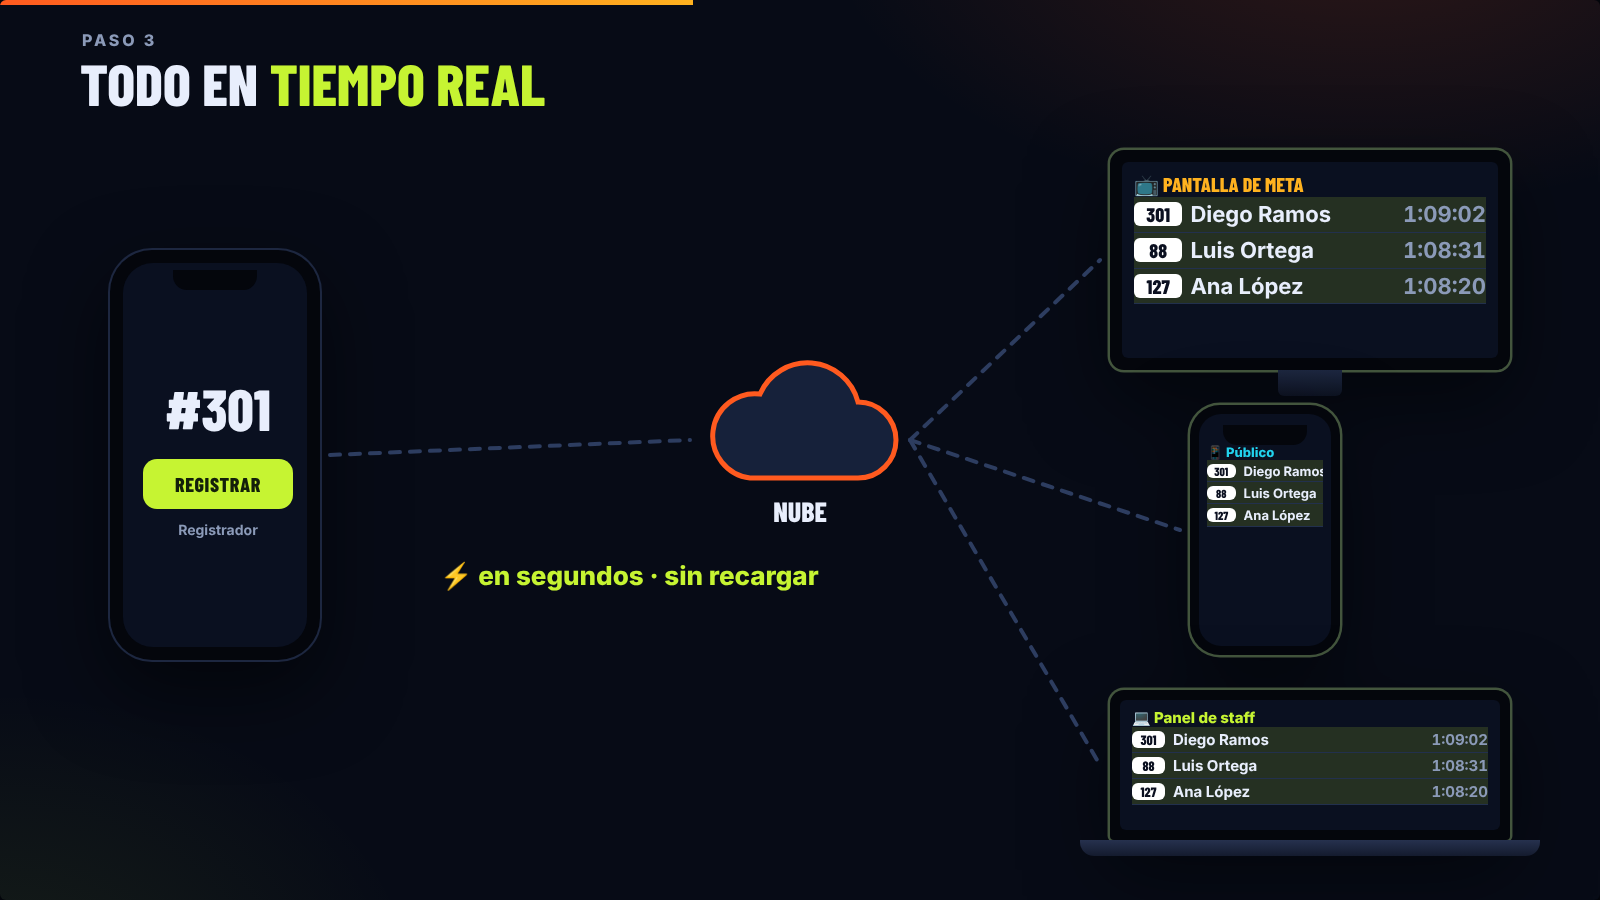
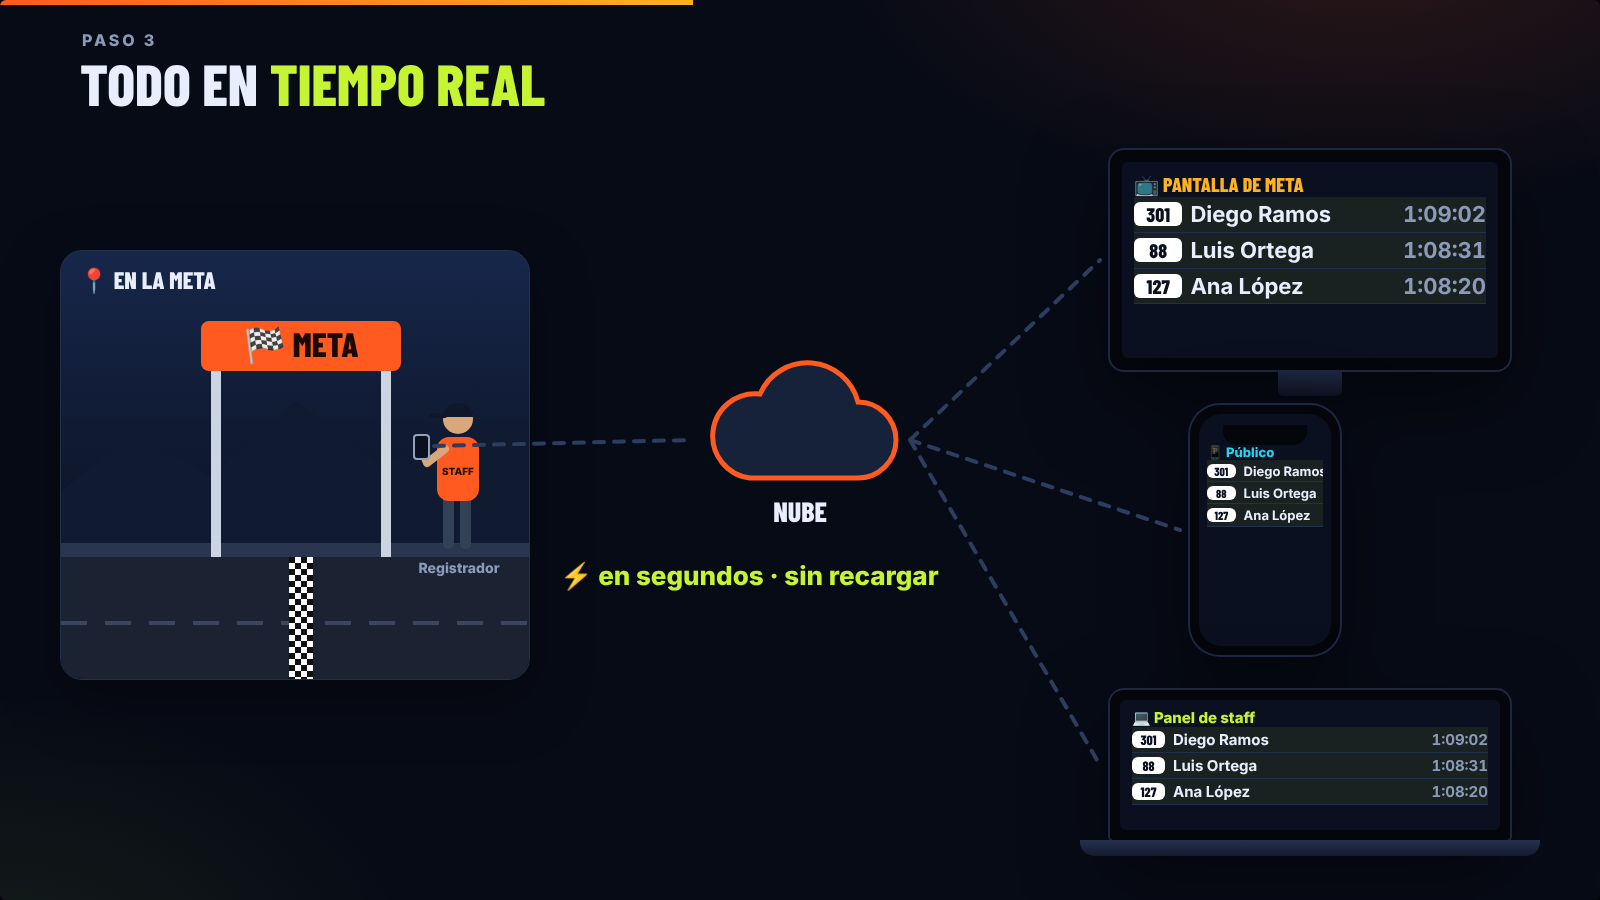
Presentación: meta con ciclistas cruzando y persona cronometrando
Claude-Session: https://claude.ai/code/session_01GFrjzfvwnkTfurMkTH8iyS

diff --git a/docs/presentacion-animada.html b/docs/presentacion-animada.html
@@ -198,6 +198,62 @@ function qrSvg(size, seed = 7) {
   return `<svg width="${size}" height="${size}" viewBox="0 0 ${size} ${size}" style="background:#fff;padding:${c}px;box-sizing:content-box;border-radius:8px"><g fill="#000">${r}${f(0, 0)}${f(n - 7, 0)}${f(0, n - 7)}</g></svg>`;
 }
 
+
+/* Meta: arco, línea a cuadros, persona cronometrando y ciclistas que cruzan */
+function finishLine(x, y, w = 470, h = 430) {
+  const v = el(`<div class="ab card" style="left:${x}px;top:${y}px;width:${w}px;height:${h}px;overflow:hidden;padding:0;background:linear-gradient(180deg,#16274a,#0c1222 72%)">
+    <svg width="${w}" height="${h}" viewBox="0 0 470 430" preserveAspectRatio="none" style="position:absolute;inset:0">
+      <defs><pattern id="chk${x}" width="12" height="12" patternUnits="userSpaceOnUse"><rect width="12" height="12" fill="#111"/><rect width="6" height="6" fill="#fff"/><rect x="6" y="6" width="6" height="6" fill="#fff"/></pattern></defs>
+      <path d="M0 240 L70 185 L150 225 L235 150 L320 215 L400 170 L470 200 L470 300 L0 300Z" fill="#101a30"/>
+      <rect x="0" y="292" width="470" height="14" fill="#2a3550"/>
+      <rect x="0" y="306" width="470" height="124" fill="#1b2232"/>
+      <line x1="0" y1="372" x2="470" y2="372" stroke="#3a4560" stroke-width="4" stroke-dasharray="26 18"/>
+      <rect x="228" y="306" width="24" height="124" fill="url(#chk${x})"/>
+      <rect x="150" y="84" width="10" height="222" fill="#cbd5e1"/><rect x="320" y="84" width="10" height="222" fill="#cbd5e1"/>
+      <rect x="140" y="70" width="200" height="50" rx="8" fill="#ff5a1f"/>
+      <text x="240" y="106" text-anchor="middle" font-family="Barlow Condensed,Inter" font-weight="800" font-size="34" fill="#1a0b02">🏁 META</text>
+    </svg>
+    <div style="position:absolute;left:18px;top:14px;font-family:var(--display);font-weight:800;font-size:24px;text-transform:uppercase">📍 En la meta</div>
+    <svg class="who" width="90" height="160" viewBox="0 0 90 160" style="position:absolute;left:352px;top:142px">
+      <rect x="30" y="100" width="11" height="56" rx="5" fill="#334155"/><rect x="47" y="100" width="11" height="56" rx="5" fill="#334155"/>
+      <rect x="24" y="44" width="42" height="64" rx="12" fill="#ff5a1f"/>
+      <text x="45" y="82" text-anchor="middle" font-size="10" font-weight="800" fill="#1a0b02" font-family="Inter">STAFF</text>
+      <circle cx="45" cy="26" r="15" fill="#d9a77c"/><path d="M30 24 a15 14 0 0 1 30 0 z" fill="#0f172a"/><rect x="16" y="20" width="18" height="5" rx="2" fill="#0f172a"/>
+      <path d="M32 56 L14 70 L10 60" stroke="#d9a77c" stroke-width="8" fill="none" stroke-linecap="round" stroke-linejoin="round"/>
+      <rect class="ph" x="1" y="42" width="15" height="24" rx="3" fill="#0b1020" stroke="#94a3b8" stroke-width="2"/>
+    </svg>
+    <div style="position:absolute;left:330px;top:308px;width:136px;text-align:center;font-size:14px;font-weight:800;color:var(--muted)">Registrador</div>
+  </div>`);
+  const ph = $('.ph', v);
+  return {
+    v,
+    phone: [x + 352 + 8, y + 142 + 54], // centro del celular de la persona, en coordenadas del escenario
+    flash(t, color = '#c6f432') {
+      A(ph, [{ fill: color }, { fill: color, offset: .6 }, { fill: '#0b1020' }], t, 0.7, { fill: 'none' });
+      const r = el(`<div style="position:absolute;left:${352 + 8 - 40}px;top:${142 + 54 - 40}px;width:80px;height:80px;border-radius:50%;border:4px solid ${color};opacity:0;pointer-events:none"></div>`, v);
+      A(r, [{ opacity: .9, transform: 'scale(.3)' }, { opacity: 0, transform: 'scale(1.4)' }], t, 0.7, { e: 'ease-out', fill: 'forwards' });
+    },
+    // pts: [[t, x], ...] — x es el borde izquierdo de la bici; la placa cruza la línea cuando x ≈ 135
+    bike(num, jersey, pts) {
+      const wheel = (cx) => `<g class="wh" style="transform-box:fill-box;transform-origin:center"><circle cx="${cx}" cy="78" r="18" fill="none" stroke="#e2e8f0" stroke-width="4"/><path d="M${cx - 17} 78h34M${cx} 61v34" stroke="#64748b" stroke-width="2"/></g>`;
+      const b = el(`<svg width="120" height="100" viewBox="0 0 120 100" style="position:absolute;left:0;top:304px;transform:translateX(-160px);z-index:2">
+        ${wheel(24)}${wheel(96)}
+        <path d="M24 78 L48 78 L74 50 L44 50 Z M48 78 L42 44 M74 50 L96 78 M74 50 L76 38" stroke="#94a3b8" stroke-width="5" fill="none" stroke-linejoin="round" stroke-linecap="round"/>
+        <path d="M46 44 L58 62 L50 78" stroke="#1e293b" stroke-width="7" fill="none" stroke-linecap="round" stroke-linejoin="round"/>
+        <path d="M44 44 L70 24" stroke="${jersey}" stroke-width="13" stroke-linecap="round"/>
+        <path d="M70 26 L80 38" stroke="${jersey}" stroke-width="6" stroke-linecap="round"/>
+        <circle cx="78" cy="16" r="8" fill="#d9a77c"/><path d="M67 15 a11 10 0 0 1 22 -2 z" fill="${jersey}"/>
+        <rect x="80" y="34" width="34" height="22" rx="3" fill="#fff" stroke="#111" stroke-width="1.5"/>
+        <text x="97" y="51" text-anchor="middle" font-size="16" font-weight="800" fill="#0b1020" font-family="Barlow Condensed,Inter">${num}</text>
+      </svg>`, v);
+      const t0 = pts[0][0], d = pts[pts.length - 1][0] - t0;
+      A(b, pts.map(([t, px]) => ({ transform: `translateX(${px}px)`, offset: (t - t0) / d })), t0, d, { e: 'linear' });
+      b.querySelectorAll('.wh').forEach((w) => A(w, [{ transform: 'rotate(0)' }, { transform: 'rotate(360deg)' }], t0, 0.45, { it: Math.ceil(d / 0.45), e: 'linear' }));
+      return b;
+    },
+  };
+}
+
 /* ───────── Escenas ───────── */
 const SCENES = {
   apertura() {
@@ -289,10 +345,14 @@ const SCENES = {
         at(1.05 + i * 0.5, () => { b.style.background = 'rgba(34,197,94,.15)'; b.style.color = '#5ee08f'; b.textContent = `● 10:0${i}:00`; });
       });
     }
+    const M = finishLine(80, c ? 170 : 190);
+    if (!c) { A(M.v, IN, 4.5, 0.5); A($('.card', root), OUT, 4.2, 0.35); } else A(M.v, IN, 0.1, 0.5);
     typeBib(P, '127', t0, g);
     at(t0 + 2 * g + 0.25, () => { P.disp.style.borderColor = 'var(--green)'; P.who.innerHTML = '<span style="color:#fff;font-size:18px">Ana López</span><br><span style="color:var(--pink)">Femenil</span> · vuelta <b style="color:var(--lime)">2 de 3</b>'; P.who.style.borderColor = 'var(--green)'; });
     if (!c) A(el(`<div class="ab" style="left:1000px;top:330px;font-size:22px;font-weight:700;color:var(--muted);width:240px">👀 Ve quién es<br>y qué vuelta lleva</div>`), IN, t0 + 1.4, 0.5);
     const tr = c ? 2.4 : 8.6;
+    M.bike('127', 'var(--pink)', c ? [[0.2, -150], [2.1, 110], [2.4, 135], [3.3, 520]] : [[4.7, -150], [7.2, 70], [8.3, 115], [8.6, 135], [9.6, 520]]);
+    M.flash(tr);
     press(P.reg, tr);
     ripple(800, 500, tr + 0.05, 'var(--lime)', 3, 520);
     A(P.ph, [{ transform: 'translateX(0)' }, { transform: 'translateX(-9px)' }, { transform: 'translateX(9px)' }, { transform: 'translateX(-7px)' }, { transform: 'translateX(7px)' }, { transform: 'translateX(0)' }], tr + 0.05, 0.5, { fill: 'none', e: 'linear' });
@@ -306,7 +366,7 @@ const SCENES = {
     A(toast, OUT, 12, 0.3); A(icons, OUT, 12, 0.3);
     typeBib(P, '127', 12.3, 0.35);
     at(13.25, () => { P.disp.style.borderColor = 'var(--amber)'; P.who.innerHTML = '<span style="color:#fff;font-size:18px">Ana López</span><br><span style="color:var(--amber)">pasó hace 6 s</span>'; });
-    press(P.reg, 14);
+    press(P.reg, 14); M.flash(14, '#ffb21f');
     const warn = el(`<div class="ab" style="left:1010px;top:430px;width:470px;padding:20px 24px;border-radius:18px;background:rgba(255,178,31,.14);border:2px solid var(--amber);font-size:25px;font-weight:800;color:var(--amber)">⚠ ¿Paso duplicado?<div style="font-size:19px;color:#fff;margin:6px 0 14px;font-weight:600">#127 pasó hace 6 segundos</div><span class="btn d" style="height:46px;padding:0 18px;background:var(--surface2);border:1px solid var(--line2);color:#fff;font-size:20px;margin-right:10px">Descartar</span><span class="btn" style="height:46px;padding:0 18px;background:var(--amber);color:#1a1100;font-size:20px">Registrar igual</span></div>`);
     A(warn, POP, 14.2, 0.5);
     ripple(800, 500, 14.05, 'var(--amber)', 2, 460);
@@ -318,8 +378,9 @@ const SCENES = {
 
   vivo(c) {
     title(c ? '' : 'Paso 3', 'Todo en <i>tiempo real</i>');
-    const phone = el(`<div class="phone" style="left:110px;top:250px;width:210px;height:410px"><div class="scr" style="display:grid;place-items:center;text-align:center;padding:20px"><div><div style="font-family:var(--display);font-weight:800;font-size:58px" class="d">—</div><div class="btn" style="margin-top:16px;height:50px;width:150px;background:var(--lime);color:#13200a;font-size:20px">Registrar</div><div class="muted" style="font-size:14px;margin-top:12px;font-weight:700">Registrador</div></div></div></div>`);
-    A(phone, IN, 0.1, 0.5);
+    const M = finishLine(60, 250);
+    A(M.v, IN, 0.1, 0.5);
+    const [px, py] = M.phone;
     const cloud = el(`<div class="ab" style="left:690px;top:360px;width:220px;text-align:center"><svg width="200" height="130" viewBox="0 0 200 130"><path d="M50 118 h108 a38 38 0 0 0 0-76 a52 52 0 0 0-98-8 a42 42 0 0 0-10 84z" fill="var(--surface2)" stroke="var(--orange)" stroke-width="5"/></svg><div style="font-family:var(--display);font-weight:800;font-size:28px;text-transform:uppercase">Nube</div></div>`);
     A(cloud, POP, 0.3, 0.6);
     const mkList = (n) => Array.from({ length: n }, () => '').join('');
@@ -327,11 +388,12 @@ const SCENES = {
     const pub = el(`<div class="phone" style="left:1190px;top:405px;width:150px;height:250px;padding:9px;border-radius:30px"><div class="scr" style="border-radius:22px;padding:30px 8px 8px"><div style="font-weight:800;font-size:13px;color:var(--cyan)">📱 Público</div><div class="L"></div></div></div>`);
     const lap = el(`<div class="lap" style="left:1110px;top:690px;width:400px;height:150px"><div class="scr" style="border-radius:6px;padding:8px 12px"><div style="font-weight:800;font-size:15px;color:var(--lime)">💻 Panel de staff</div><div class="L"></div></div></div>`);
     [tv, pub, lap].forEach((d, i) => A(d, IN, 0.5 + i * 0.25, 0.5));
-    link([[330, 455], [690, 440]]); link([[910, 440], [1100, 260]]); link([[910, 440], [1180, 530]]); link([[910, 440], [1100, 765]]);
+    link([[px + 14, py], [690, 440]]); link([[910, 440], [1100, 260]]); link([[910, 440], [1180, 530]]); link([[910, 440], [1100, 765]]);
     const people = [['127', 'Ana López', '1:08:20'], ['88', 'Luis Ortega', '1:08:31'], ['301', 'Diego Ramos', '1:09:02']];
     const send = (t, [b, n, tm]) => {
-      at(t, () => { $('.d', phone).textContent = '#' + b; });
-      fly([330, 455], [690, 440], t + 0.1, 0.7);
+      M.bike(b, { 127: 'var(--pink)', 88: 'var(--orange)', 301: 'var(--lime)' }[b], [[t - 1.3, -150], [t, 135], [t + 0.9, 520]]);
+      M.flash(t);
+      fly([px, py], [690, 440], t + 0.1, 0.7);
       [[1100, 260, tv, 22], [1180, 530, pub, 13], [1100, 765, lap, 15]].forEach(([x, y, dev, fs]) => {
         fly([910, 440], [x, y], t + 0.85, 0.6);
         at(t + 1.45, () => {
@@ -344,8 +406,8 @@ const SCENES = {
         });
       });
     };
-    (c ? [0.7, 3.2] : [1.4, 4.6, 7.8]).forEach((t, i) => send(t, people[i]));
-    if (!c) A(el(`<div class="ab" style="left:440px;top:560px;font-size:26px;font-weight:800;color:var(--lime)">⚡ en segundos · sin recargar</div>`), IN, 3, 0.5);
+    (c ? [1.2, 3.4] : [1.6, 4.6, 7.8]).forEach((t, i) => send(t, people[i]));
+    if (!c) A(el(`<div class="ab" style="left:560px;top:560px;font-size:26px;font-weight:800;color:var(--lime)">⚡ en segundos · sin recargar</div>`), IN, 3, 0.5);
   },
 
   offline() {

diff --git a/docs/PRESENTACION_ANIMADA.md b/docs/PRESENTACION_ANIMADA.md
@@ -27,8 +27,8 @@
 | 1 | Apertura | Ciclista en un circuito de montaña, logo y las tres ideas clave |
 | 2 | El problema | Libreta, Excel con errores, "+3 h" y las preguntas de los corredores |
 | 3 | Prepara tu evento | Alta del evento, importación de 256 corredores desde Excel y categorías con colores |
-| 4 | Cronometra desde la meta | Salidas por categoría, dorsal tecleado, quién es y qué vuelta lleva, registro con sonido y vibración, aviso de duplicado |
-| 5 | Tiempo real | El paso viaja a la nube y aparece en la pantalla de meta, el celular del público y el panel del staff |
+| 4 | Cronometra desde la meta | Salidas por categoría; en la meta, una ciclista cruza la línea y la persona del staff la registra; dorsal tecleado, quién es y qué vuelta lleva, registro con sonido y vibración, aviso de duplicado |
+| 5 | Tiempo real | Los ciclistas cruzan la meta y cada paso viaja a la nube y aparece en la pantalla de meta, el celular del público y el panel del staff |
 | 6 | Sin internet | Los pasos se guardan en cola y se envían solos al volver la señal |
 | 7 | Resultados automáticos | Podio, vueltas, mejor vuelta, velocidad promedio, DNF y exportación a Excel/PDF |
 | 8 | Para el público | Código QR en la pantalla y resultados en el celular, sin descargar nada |
